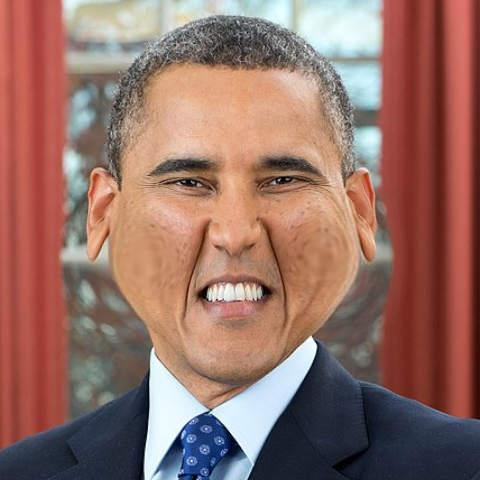
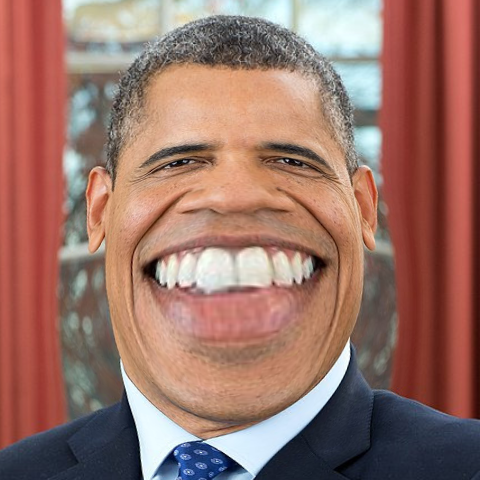
Chipmunk swells the whole lower face; version 0.2.0; one filter grid and a square button on the site

Changed region(s): [[0.0938, 0.2812, 0.8438, 1.0], [0.7188, 0.9375, 0.75, 0.9688]]

diff --git a/src/filters.js b/src/filters.js
@@ -21,10 +21,6 @@ export const LM = {
   chin: 152,
   jawLeft: 172,
   jawRight: 397,
-  mouthRight: 61, // subject's right mouth corner
-  mouthLeft: 291,
-  faceEdgeRight: 234, // outline at cheekbone height
-  faceEdgeLeft: 454,
 };
 
 // Face outline, in order around the face (MediaPipe FACEMESH_FACE_OVAL).
@@ -286,17 +282,15 @@ const fisheye = (face, pts, t) => [
 const bigEyes = (face, pts, t) =>
   [pts[LM.rightIris], pts[LM.leftIris]].map((c) => ({ x: c.x, y: c.y, r: face.eyeDist * (0.4 + 0.2 * t), s: 0.95 * t }));
 
-// Chipmunk: puff out the lower cheeks, like Photo Booth. Each bulge sits
-// over the outer cheek (most of the way from the mouth corner to the face's
-// edge), pulled down toward the jaw so the face widens at the bottom, and
-// small enough that the two don't overlap and squeeze the nose and mouth. (LM.jawLeft/jawRight are named for
-// the image's sides, so the subject's right cheek pairs with jawLeft.)
+// Chipmunk: like Photo Booth, the whole lower face (cheeks, mouth and jaw)
+// swells as one, as if the cheeks were stuffed. A single bulge centred
+// between the nose tip and the chin; two separate cheek bulges would stretch
+// the mouth apart and pinch the middle of the face.
 const lerp = (a, b, k) => ({ x: a.x + (b.x - a.x) * k, y: a.y + (b.y - a.y) * k });
-const chipmunk = (face, pts, t) =>
-  [
-    lerp(lerp(pts[LM.mouthRight], pts[LM.faceEdgeRight], 0.68), pts[LM.jawLeft], 0.3),
-    lerp(lerp(pts[LM.mouthLeft], pts[LM.faceEdgeLeft], 0.68), pts[LM.jawRight], 0.3),
-  ].map((c) => ({ x: c.x, y: c.y, r: face.eyeDist * (0.6 + 0.15 * t), s: 0.95 * t }));
+const chipmunk = (face, pts, t) => {
+  const c = lerp(face.noseTip, pts[LM.chin], 0.45);
+  return [{ x: c.x, y: c.y, r: face.eyeDist * (1.3 + 0.3 * t), s: 0.8 * t }];
+};
 
 const pinch = (face, pts, t) => [{ x: face.noseTip.x, y: face.noseTip.y, r: face.eyeDist * 1.6, s: -t }];
 

diff --git a/docs/index.html b/docs/index.html
@@ -24,10 +24,6 @@
 <figure><img src="examples/bigEyes.png" width="240" height="240" alt="Big eyes filter"><figcaption>Big eyes</figcaption></figure>
 <figure><img src="examples/chipmunk.png" width="240" height="240" alt="Chipmunk filter"><figcaption>Chipmunk</figcaption></figure>
 <figure><img src="examples/pinch.png" width="240" height="240" alt="Tiny face filter"><figcaption>Tiny face</figcaption></figure>
-</div>
-
-<h2>Blur</h2>
-<div class="filters one">
 <figure><img src="examples/faceBlur.png" width="240" height="240" alt="Face blur filter"><figcaption>Face blur</figcaption></figure>
 </div>
 

diff --git a/docs/style.css b/docs/style.css
@@ -44,7 +44,7 @@ h2 {
   display: inline-block;
   padding: 14px 30px;
   border: 2px solid #000;
-  border-radius: 999px;
+  border-radius: 0;
   background: #000;
   color: #fff;
   font-weight: 700;
@@ -69,10 +69,8 @@ h2 {
   grid-template-columns: repeat(3, minmax(0, 1fr));
   gap: 16px;
 }
-.filters.one { grid-template-columns: minmax(0, 190px); justify-content: center; }
 @media (max-width: 480px) {
   .filters { grid-template-columns: repeat(2, minmax(0, 1fr)); }
-  .filters.one { grid-template-columns: minmax(0, 50%); }
 }
 figure {
   margin: 0;
